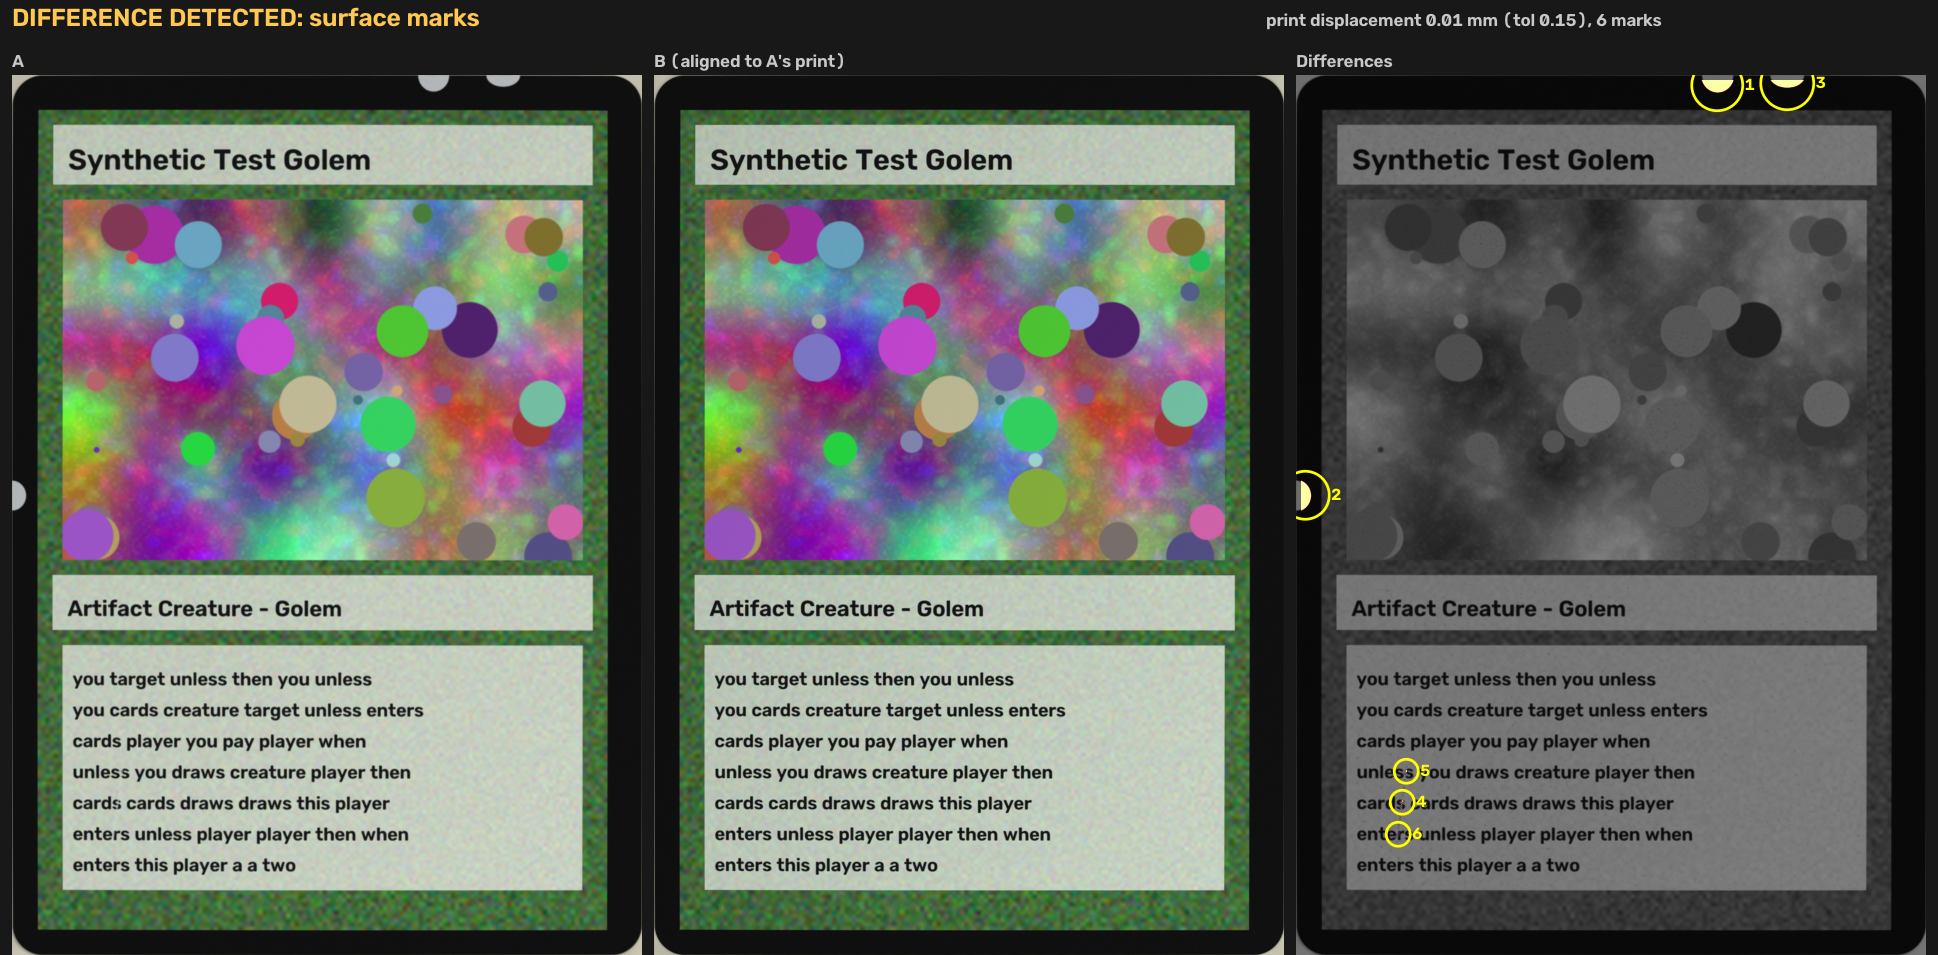
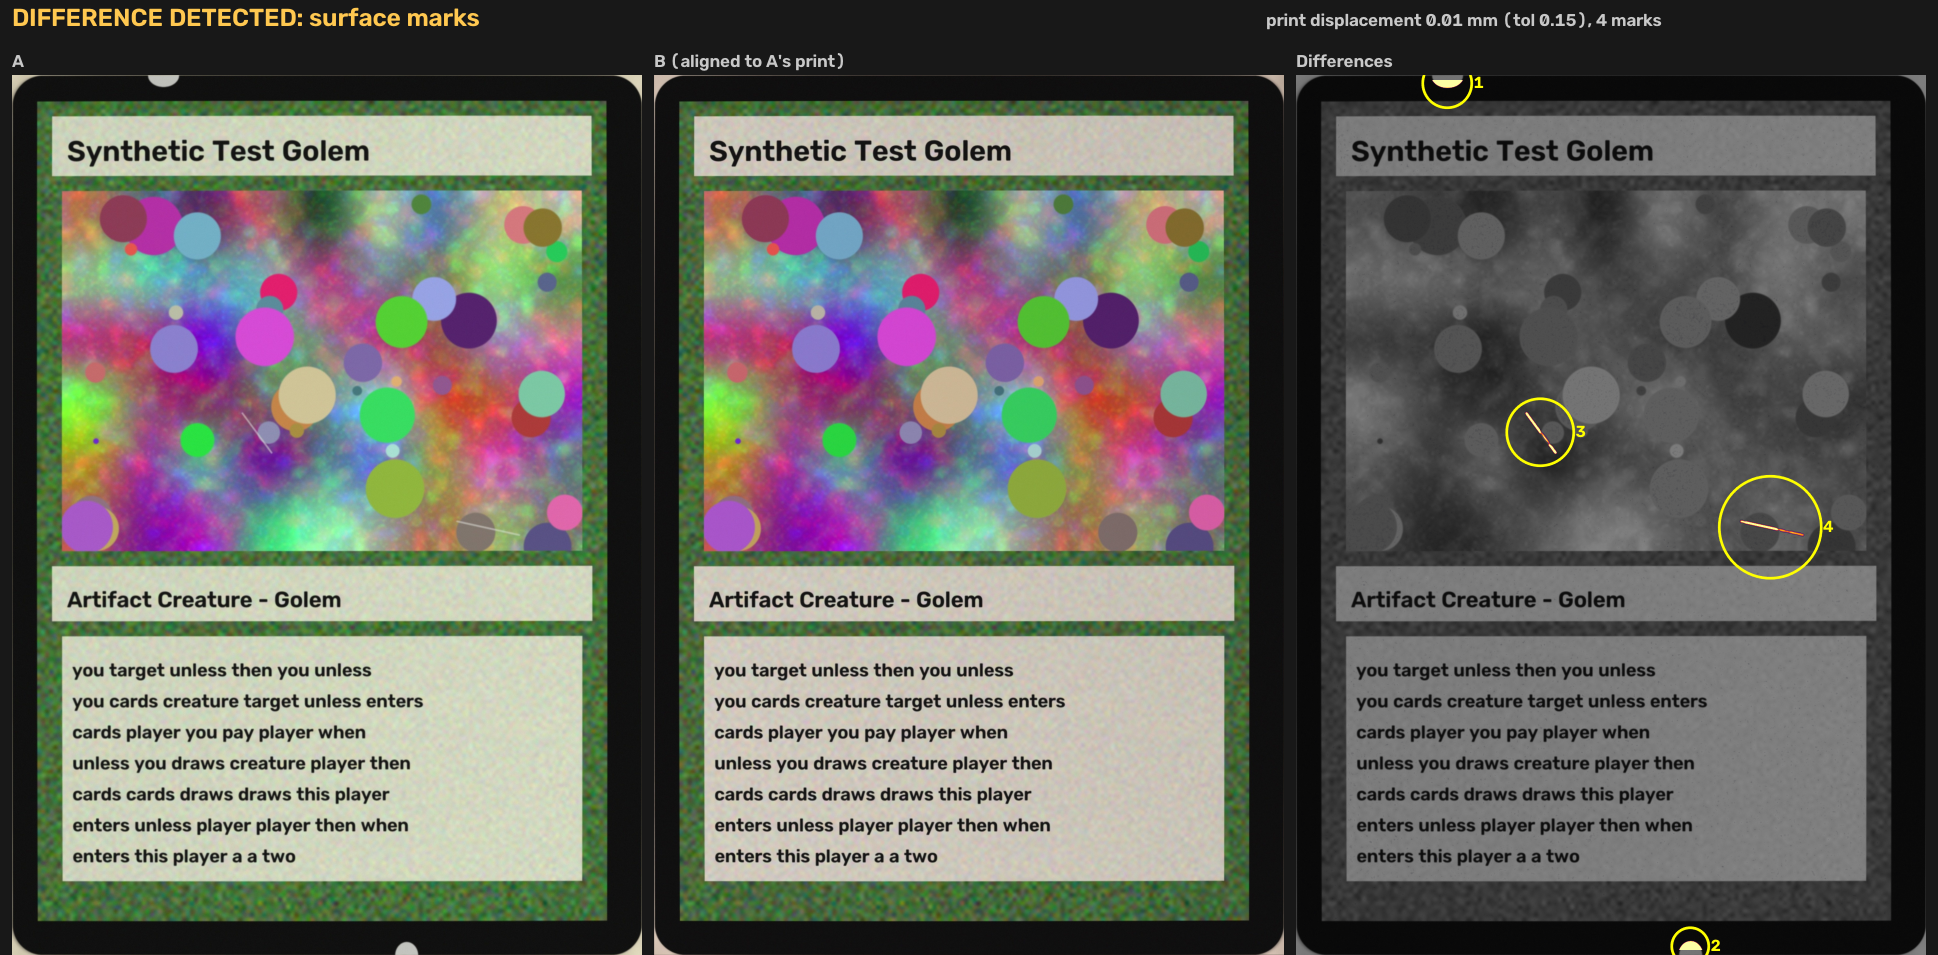
Rewrite README for mtg-copy-fingerprint with measured results
Results on synthetic and real card art (Scryfall scans) through the
simulated camera, and a new example report.

diff --git a/README.md b/README.md
@@ -1,68 +1,123 @@
-# card-diff
+# MTG Copy Fingerprint
 
-Tell two physical copies of the same trading-card printing apart from photos.
+Tell two physical copies of the same Magic: The Gathering card apart from photos.
 
-Copies of one printing carry no unique ID, so `card_diff.py` compares what physically differs:
+Two Lightning Bolts from the same set share their artwork, text and set symbol, and carry no
+serial number. Each physical copy still has a fingerprint of its own:
 
-1. **Cut registration**: where the print sits relative to the cut edge (centering and tilt).
-2. **Surface marks**: wear, scratches, print specks, whitening.
+1. **Centering.** Where the print sits relative to the cut edge. It is set at the factory when
+   the sheet is cut, differs from copy to copy by fractions of a millimetre, and stays with the
+   card for life.
+2. **Surface marks.** Scratches, print specks, scuffs and edge whitening.
 
-## Usage
+Give it two photos and it tells you whether they can be the same physical card, measures the
+centering difference between them, and circles the marks found on one copy but not the other.
+
+![Example report](example_report.png)
+
+## Quick start
 
 ```
+git clone https://github.com/OzturkArda/mtg-copy-fingerprint
+cd mtg-copy-fingerprint
 pip install -r requirements.txt
-python card_diff.py a.jpg b.jpg --out report.png
-python card_diff.py a.jpg b.jpg --json
+python copy_fingerprint.py a.jpg b.jpg --out report.png
 ```
 
-Exit code: `0` no difference detected, `1` difference detected, `2` error.
+```
+DIFFERENCE DETECTED: centering
 
-## Photos
+Centering   print displacement 0.30 mm (tolerance 0.15) -> differs
+            B's print vs A's: +0.30 mm right, +0.00 mm down, +0.00 deg
+Marks       0 found
+Quality     3625 matched print features, photos at 30 and 28 px/mm
+```
 
-One unsleeved card per photo, shot from straight above on a plain background that contrasts
-with the card border, no glare, card filling most of the frame. Fronts and backs both work.
+`--out` writes the three-panel image above: A, B aligned to A's print, and the differences with
+numbered marks. `--json` prints the same result for scripts. The exit code is `0` when no
+difference is found, `1` when one is, and `2` on an error such as a photo with no card in it.
 
-Calibrate first: run it on two photos of the **same** card. The print displacement it reports
-is your setup's noise floor, and `--tol-mm` must sit above it.
+| Option | Default | Meaning |
+|---|---|---|
+| `--tol-mm` | 0.15 | Print displacement above this counts as a centering difference |
+| `--min-mark-mm2` | 0.03 | Ignore marks smaller than this area |
+| `--mark-sigma` | 6 | Mark threshold, in multiples of the photo noise |
+
+## Taking the photos
+
+- One unsleeved card per photo, shot from straight above, filling most of the frame.
+- A plain background that contrasts with the card's border: light for black-bordered cards,
+  dark for white-bordered ones.
+- Soft, even light with no glare. Switch the flash off.
+- JPEG, PNG and HEIC (the iPhone default) all work.
+- Fronts and backs both work. Run it once per side.
+
+**Calibrate once for your setup.** Photograph the same card twice, picking it up in between, and
+compare the two photos. The print displacement it reports is your noise floor. Set `--tol-mm`
+comfortably above it.
 
 ## How it works
 
-- Finds each card's cut outline and rectifies it to a 63 x 88 mm canvas.
-- Registers print-to-print with SIFT. Both images are already aligned on the cut, so the
-  residual transform is the centering difference.
-- Aligns on the print, cancels lighting differences, and maps the remaining marks.
+1. Finds each card's cut outline to sub-pixel precision and straightens the card onto a
+   63 x 88 mm canvas, so both images are aligned on their cut edges.
+2. Matches thousands of print features between the two images (SIFT). Because the cut edges are
+   already aligned, whatever shift and rotation is left over is the centering difference.
+3. Aligns B onto A's print, evens out differences in exposure, white balance, lighting and
+   focus, and maps what remains as surface marks. Highlights blown out in only one photo are
+   left out, so a brighter shot does not read as wear.
 
-## Testing
+## Accuracy
 
-`synth_test.py` renders synthetic copies with known centering offsets and marks, photographs
-them with random pose, perspective, lighting, shadow, lens distortion, blur, noise and JPEG
-compression, and checks what the script recovers:
+`synth_test.py` cuts copies from one printing with known centering offsets and known marks, then
+photographs them with random pose, perspective, lens distortion, shadow, lighting, blur, noise
+and JPEG compression at 12 MP. It runs on a synthetic card design, or on a real card scan:
 
 ```
-python synth_test.py /tmp/card-diff-test 8
+python synth_test.py /tmp/shots 8                              # synthetic design
+python synth_test.py /tmp/shots 8 --scan bolt.png              # real card art, e.g. a Scryfall PNG
+python synth_test.py /tmp/shots 8 --scan angel.png --bg 40,38,36   # white border on a dark table
 ```
 
-Results on synthetic photos (8 trials per row, 12 MP shots at about 30 px/mm):
+Results, 8 photo pairs per row. The real card art and the card back come from Scryfall scans
+(745 x 1040 px) scaled up to the simulated print.
 
-| Test | Result |
-|---|---|
-| Same copy, two photos | 8/8 no difference; print displacement median 0.009 mm, max 0.011 mm; 0 false marks |
-| Centering differs by 0.20 to 1.00 mm | 32/32 detected; offset error at most 0.013 mm |
-| Centering differs by 0.15 mm | 7/8 detected (sits on the default tolerance) |
-| Centering differs by 0.10 mm | 0/8 flagged (below the default tolerance; lower `--tol-mm` to catch it) |
-| Tilt differs by 0.3 degrees | 8/8 detected |
-| Same centering, one copy worn | 8/8 detected; 29/32 planted marks located, 0 marks without a planted cause |
-| Different card design, photo with no card | both rejected with an error |
+| Test | Synthetic design | Lightning Bolt (M10) | Llanowar Elves (DOM) | Serra Angel (4ED, white border, dark table) | Card back |
+|---|---|---|---|---|---|
+| Same copy, two photos: no difference | 8/8 | 8/8 | 8/8 | 8/8 | 8/8 |
+| Same copy: false marks | 0 | 0 | 0 | 0 | 0 |
+| Same copy: largest print displacement (noise floor) | 0.011 mm | 0.015 mm | 0.018 mm | 0.009 mm | 0.011 mm |
+| Centering differs by 0.20 to 1.00 mm: detected | 32/32 | 32/32 | 32/32 | 32/32 | 32/32 |
+| Centering differs by 0.15 mm (at the default tolerance) | 5/8 | 7/8 | 6/8 | 6/8 | 8/8 |
+| Centering differs by 0.10 mm (below the default tolerance) | 0/8 | 0/8 | 0/8 | 0/8 | 0/8 |
+| Largest error in the measured centering difference | 0.013 mm | 0.014 mm | 0.015 mm | 0.011 mm | 0.015 mm |
+| Tilt differs by 0.3 degrees: detected | 8/8 | 8/8 | 8/8 | 8/8 | 8/8 |
+| One copy worn: planted marks located | 32/32 | 29/32 | 23/32 | 26/32 | 32/32 |
+| One copy worn: marks with no planted cause | 0 | 0 | 0 | 0 | 0 |
+| Different card, photo with no card | rejected | rejected | rejected | rejected | rejected |
 
-**Not validated on real card photos.** Real photos add curl, uneven shadows, glare and dust,
-so expect a higher noise floor than these numbers. The 0.15 mm default tolerance is a starting
-point, not a measured value: calibrate it as described above.
+These are simulated photos. Real photos add card curl, uneven shadows, glare and dust, so expect a
+higher noise floor: calibrate as described above before trusting a centering verdict. The tool
+has not yet been tested on photos of physical cards.
 
 ## Limits
 
-- Two mint copies whose centering matches within your noise floor cannot be separated.
-- Wear confined to the outer 0.5 mm of the edge is not compared.
-- Foils and sleeved cards are not supported: glare and reflections swamp the comparison.
-- Dust on the card or lens shows up as marks. Check the diff image before trusting them.
+- Two mint copies whose centering matches within your noise floor cannot be told apart.
+- Wear in the outer 0.5 mm of the edge is not compared.
+- Foils and sleeved cards reflect too much light for a reliable comparison.
+- Dust on the card or the lens shows up as marks, so check the report image before trusting them.
 
-![Example report](example_report.png)
+## Tests
+
+```
+pip install pytest
+pytest
+```
+
+The suite checks photo loading, each verdict on simulated photos with known ground truth, and the
+command-line exit codes. It runs on Linux, macOS and Windows in GitHub Actions.
+
+## License
+
+MIT
+
+Magic: The Gathering is a trademark of Wizards of the Coast. This is an unofficial fan project.
